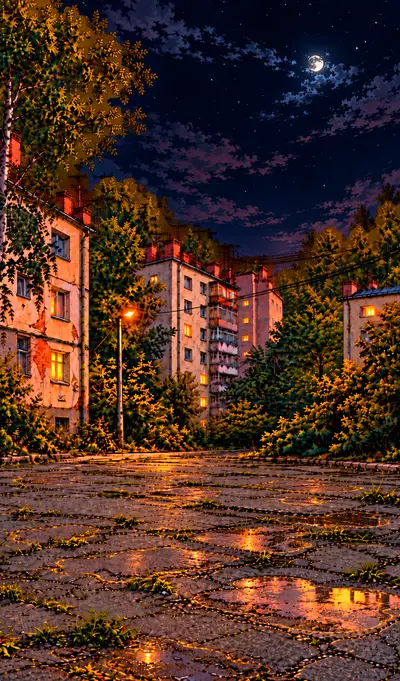
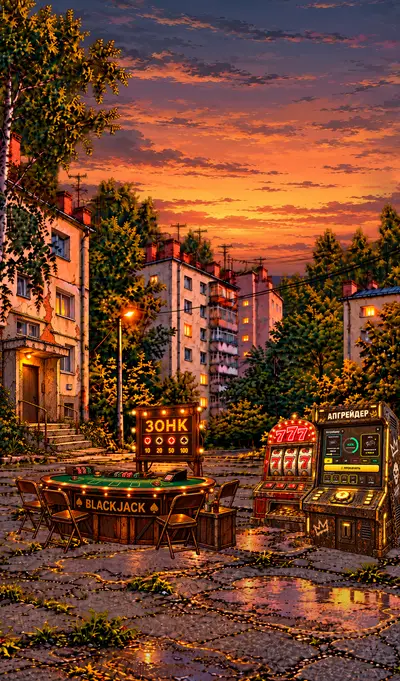
Yard: the artist's background with the sky and puddles cut out; the sunset drifts above and is reflected in the puddles
Claude-Session: https://claude.ai/code/session_01E3jaUxUo8xTQNwyakAWMq3

diff --git a/src/client/screens/yard.tsx b/src/client/screens/yard.tsx
@@ -80,8 +80,10 @@ export function YardScreen() {
         <div className="yard-stage">
           {/* the sunset sky (the same as in the fights) drifts behind the see-through sky of the yard */}
           <DriftingSky className="court-sky" />
+          {/* the same sky upside down under the ground: it shows in the see-through puddles */}
+          <DriftingSky className="yard-reflect" />
           {/* eslint-disable-next-line @next/next/no-img-element */}
-          <img className="yard-bg" src="/assets/yard/court-yard.webp" alt="" draggable={false} />
+          <img className="yard-bg" src="/assets/yard/court-night.webp" alt="" draggable={false} />
           {/* the entrance leads to the locations with tasks */}
           <Link href="/locations" className={`yard-obj yard-entrance ${taskHint ? "call" : ""}`} aria-label="Локации" title="Локации">
             {/* eslint-disable-next-line @next/next/no-img-element */}

diff --git a/src/app/screens.css b/src/app/screens.css
@@ -1565,4 +1565,5 @@ body.styling .hud, body.styling .nav { filter: grayscale(1) brightness(0.45); po
 .yard .yard-item { z-index: 4; }
 /* the yard's sky: the drifting sunset behind the see-through sky of the background */
 .court-sky { position: absolute; left: 0; right: 0; top: 0; height: 40.5%; overflow: hidden; background: #3a3150; }
-.court-sky .yard-sky-strip { animation-duration: 110s; }
+.court-sky .yard-sky-strip, .yard-reflect .yard-sky-strip { animation-duration: 110s; }
+.yard-reflect { position: absolute; left: 0; right: 0; top: 60%; bottom: 0; overflow: hidden; transform: scaleY(-1); filter: brightness(0.75) saturate(1.1) blur(0.6px); }

diff --git a/src/client/art/scenes.tsx b/src/client/art/scenes.tsx
@@ -180,7 +180,7 @@ export function LocationScene({ scene }: { scene: string }) {
 
 /* ---------------- yard (400×560). Item spots are in YARD_SPOTS (percent of the scene) ---------------- */
 export const YARD_SPOTS = [
-  // on the asphalt of the drawn yard (public/assets/yard/court-yard.webp): in front of the table and the machines
+  // on the asphalt of the drawn yard (public/assets/yard/court-night.webp): in front of the table and the machines
   // (table x 2–61%, y 58–83%; 777 and the upgrader x 60–100%, y 59–82%); r = how the thing lies
   { x: 14, y: 89, r: -14 },
   { x: 36, y: 92, r: 9 },

diff --git a/src/client/asset-manifest.ts b/src/client/asset-manifest.ts
@@ -308,13 +308,13 @@ export const ASSET_FILES: string[] = [
  "/assets/yard/court-backdrop.webp",
  "/assets/yard/court-entrance-ring.webp",
  "/assets/yard/court-entrance.webp",
+ "/assets/yard/court-night.webp",
  "/assets/yard/court-slot-ring.webp",
  "/assets/yard/court-slot.webp",
  "/assets/yard/court-table-ring.webp",
  "/assets/yard/court-table.webp",
  "/assets/yard/court-upgrader-ring.webp",
  "/assets/yard/court-upgrader.webp",
- "/assets/yard/court-yard.webp",
  "/assets/yard/sky.webp",
  "/bosses/bebyakyan/card.webp",
  "/bosses/bebyakyan/full.webp",
